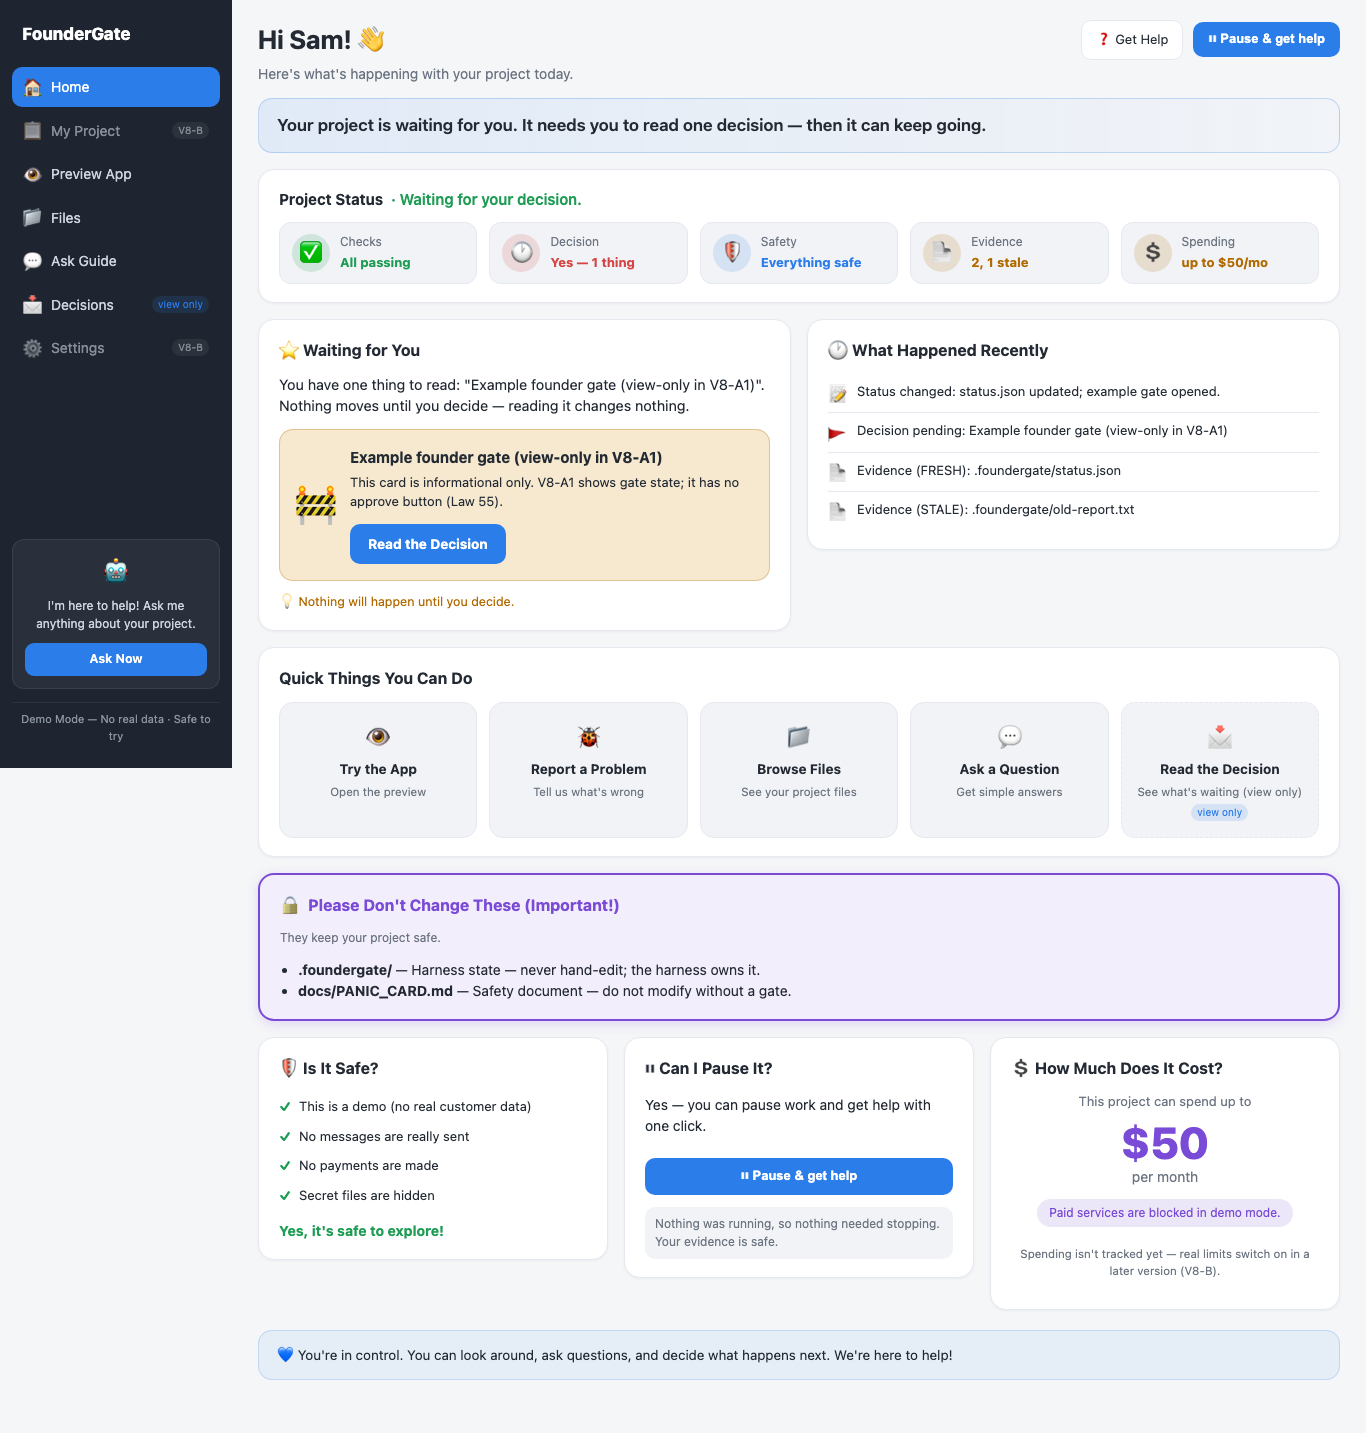
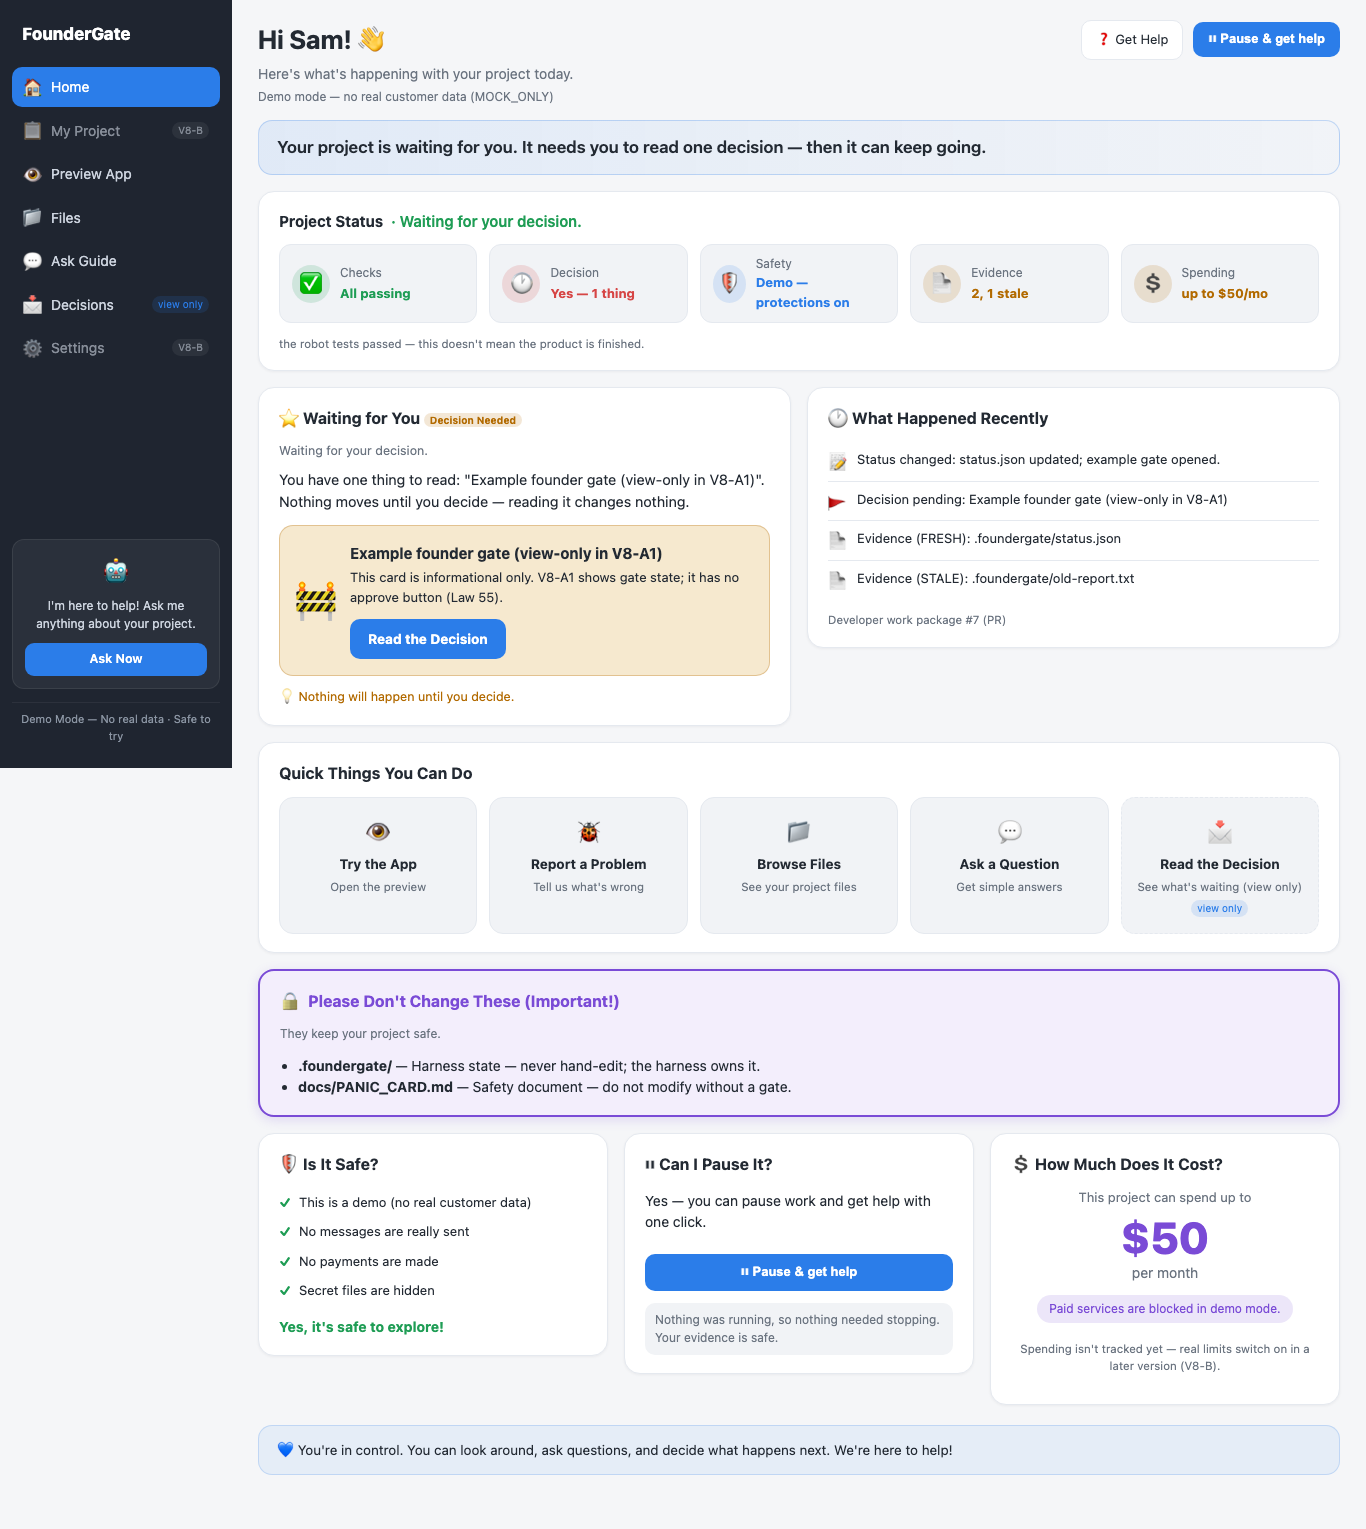
VA-HONESTY-RESTORE: relocate dropped A1 honesty translations; model-derive Safety chip
(1) The friendly redesign had dropped the A1 copy-polish honesty translations from
the rendered page. Restored them, relocated into the friendly layout, all model-
derived (Law 54), and made the required-strings smoke check a SUPERSET of the
original five (never deleted — anti-repeat law):
  - green-CI companion "the robot tests passed — this doesn't mean the product is
    finished." now sits directly under the Checks chip (#ci-honesty).
  - "Demo mode — no real customer data (MOCK_ONLY)" in the header.
  - "Decision Needed" + "Waiting for your decision." on the Waiting card.
  - "Developer work package #7 (PR)" in the activity detail.
The smoke also asserts the green-CI companion is near the Checks chip.

(2) The "Safety" status chip no longer makes a blanket "Everything safe" claim.
It is model-derived and honestly scoped: MOCK_ONLY -> "Demo - protections on"
(else UNKNOWN/scoped). Locked by a no-invented-claims assertion in the home-model
guard.

Fix: the Waiting h2 set textContent (wiping the tag span) -> title now in its own
span. Wide-safe UI; all guards pass. Suite 42/42.

diff --git a/src/v8a1/dashboard/index.html b/src/v8a1/dashboard/index.html
@@ -28,6 +28,7 @@
           <div>
             <h1 id="hi">Hi there! 👋</h1>
             <p class="subtitle" id="subtitle"></p>
+            <p class="header-honesty" id="header-honesty"></p>
           </div>
           <div class="topbar-actions">
             <a class="btn-ghost" id="get-help" href="#">❓ Get Help</a>
@@ -43,12 +44,14 @@
         <section class="card status-strip">
           <div class="strip-head"><b id="status-label">Project Status</b> <span class="state-pretty" id="state-pretty"></span></div>
           <div class="chips-row" id="status-chips"></div>
+          <p class="strip-note" id="ci-honesty"></p>
         </section>
 
         <!-- Main row -->
         <div class="mainrow">
           <section class="card waiting" id="waiting">
-            <h2 id="waiting-title">⭐ Waiting for You</h2>
+            <h2><span id="waiting-title">⭐ Waiting for You</span> <span class="tag" id="decision-needed-tag"></span></h2>
+            <p class="decision-state" id="decision-state"></p>
             <p class="lead" id="waiting-lead"></p>
             <div class="gate-box">
               <div class="gate-art" aria-hidden="true">🚧</div>
@@ -64,6 +67,7 @@
           <section class="card activity">
             <h2 id="activity-title">🕐 What Happened Recently</h2>
             <ul class="feed" id="activity-feed"></ul>
+            <p class="dev-detail" id="pr-detail"></p>
           </section>
         </div>
 

diff --git a/src/v8a1/dashboard/styles.css b/src/v8a1/dashboard/styles.css
@@ -65,6 +65,11 @@ body { background: var(--bg); color: var(--text);
 /* Status strip */
 .status-strip .strip-head { font-size: 15px; margin-bottom: 12px; }
 .status-strip .state-pretty { color: var(--ok); font-weight: 600; margin-left: 4px; }
+.strip-note { margin: 12px 0 0; font-size: 11.5px; color: var(--muted); }
+.header-honesty { margin: 4px 0 0; font-size: 12px; color: var(--muted); }
+.waiting .decision-state { margin: 0 0 8px; font-size: 12.5px; color: var(--muted); }
+.activity .dev-detail { margin: 12px 0 0; font-size: 11.5px; color: var(--muted); }
+#decision-needed-tag { background: rgba(178,106,0,.16); color: var(--warn); }
 .chips-row { display: grid; grid-template-columns: repeat(5, 1fr); gap: 12px; }
 @media (max-width: 980px) { .chips-row { grid-template-columns: repeat(2, 1fr); } }
 .statchip { display: flex; align-items: center; gap: 10px; padding: 10px 12px; border: 1px solid var(--line);

diff --git a/src/v8a1/dashboard/app.js b/src/v8a1/dashboard/app.js
@@ -52,6 +52,12 @@ function render(view) {
   $("hi").textContent = h.hi;
   $("subtitle").textContent = h.subtitle;
   $("get-help").href = h.robot.href;
+  // Restored honest companions (A1 copy-polish translations, relocated) — model-derived.
+  $("header-honesty").textContent = h.honesty.dataChip;            // Demo mode — no real customer data (MOCK_ONLY)
+  $("ci-honesty").textContent = h.honesty.checksNote;             // the robot tests passed — this doesn't mean the product is finished.
+  $("decision-needed-tag").textContent = h.honesty.decisionLabel; // Decision Needed
+  $("decision-state").textContent = h.honesty.decisionState;      // Waiting for your decision.
+  $("pr-detail").textContent = h.honesty.prDisplay;               // Developer work package #7 (PR)
 
   // F1 — plain project summary (a distinct scannable answer)
   const sc = $("summary-card"); sc.innerHTML = "";
